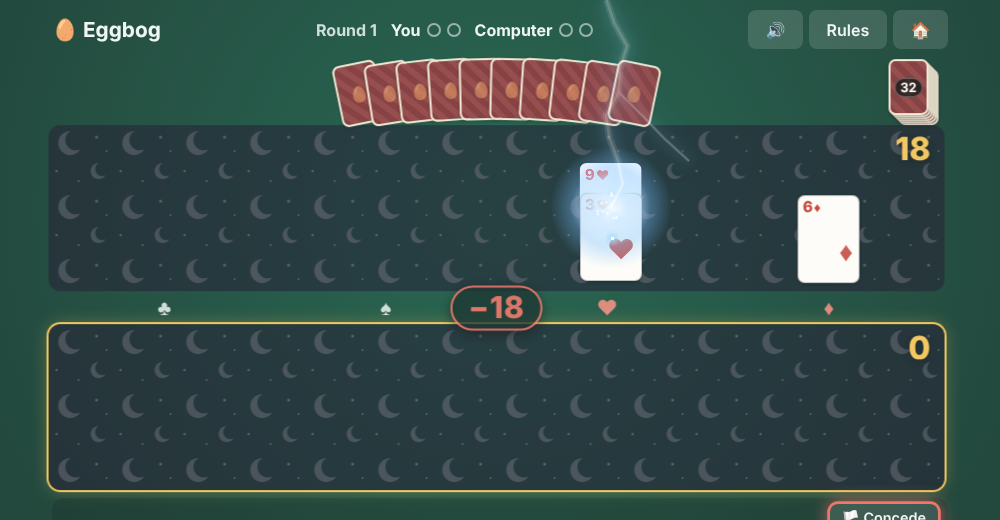
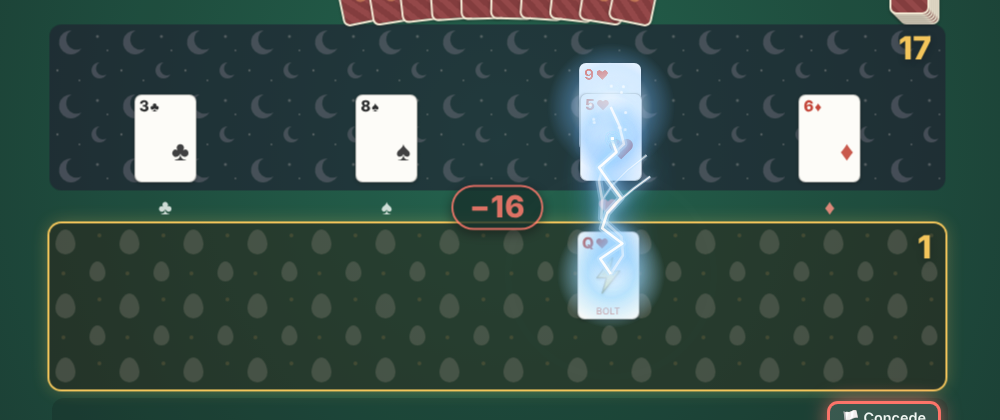
Frost and Bolt now come out of the played card; Frost only covers the two suits it hits
Claude-Session: https://claude.ai/code/session_01RZQVcp2qjBMmu2NDpK7G8g

diff --git a/eggbog.html b/eggbog.html
@@ -2833,23 +2833,32 @@ function removalAnim(kind,pl,clones,G){
   const fx=(css,z)=>{const e=document.createElement('i');e.style.cssText='position:fixed;pointer-events:none;z-index:'+(z||57)+';'+css;host.appendChild(e);return e;};
   const die=(e,ms)=>setTimeout(()=>e.remove(),ms);
   const ctr=r=>({x:r.left+r.width/2,y:r.top+r.height/2});
+  const SISTER={H:'D',D:'H',C:'S',S:'C'};
+  // where the spell comes from: the card that was just played (or its column if it can't be found)
+  const srcR=()=>{const e=document.querySelector(pl.side+' .card[data-id="'+pl.c.id+'"]');if(e)return e.getBoundingClientRect();
+    const col=document.querySelector(pl.side+' .col[data-suit="'+pl.c.s+'"]');if(!col)return null;const r=col.getBoundingClientRect();return {left:r.left+r.width/2-31,top:r.top+20,width:62,height:88};};
+  // a quick glow on the played card as it casts
+  const castGlow=(col)=>{const r=srcR();if(!r)return;const c=ctr(r);const g=fx(`left:${c.x-55}px;top:${c.y-55}px;width:110px;height:110px;border-radius:50%;background:radial-gradient(circle,#fff 0,${col} 30%,#0000 70%)`,57);
+    g.animate([{transform:'scale(.3)',opacity:0},{transform:'scale(1)',opacity:.9,offset:.3},{transform:'scale(1.3)',opacity:0}],{duration:500,fill:'both'});die(g,540);};
   if(kind==='J'){
     // Frost: an icy mist rolls over the opponent's side, freezes each removed card solid, and the ice shatters
     {
       S&&noiseBurst(1,'highpass',2500,7000,.22);
-      const tf=document.querySelector(pl.side==='#myField'?'#oppField':'#myField');
-      if(tf){
-        const r=tf.getBoundingClientRect(),dy=(pl.side==='#myField'?1:-1)*r.height*.7;   // the mist rolls in from the caster's side
-        for(let k=0;k<10;k++){
-          const sz=r.height*(.8+Math.random()*.6),x=r.left+r.width*(k/9)-sz/2,y=r.top+r.height/2-sz/2+(Math.random()-.5)*r.height*.4;
-          const m=fx(`left:${x}px;top:${y}px;width:${sz}px;height:${sz}px;border-radius:50%;background:radial-gradient(circle,#f4fbffd0 0,#c6e9ffaa 35%,#8fd0ff44 60%,#0000 72%);filter:blur(8px)`,56);
-          m.animate([{transform:`translate(${(Math.random()-.5)*40}px,${dy}px) scale(.5)`,opacity:0},{transform:'none',opacity:.9,offset:.4},{transform:`translate(${(Math.random()-.5)*60}px,${-dy*.15}px) scale(1.3)`,opacity:0}],{duration:1150,delay:k*35,easing:'ease-out',fill:'both'});die(m,1250+k*35);
+      castGlow('#bfe6ffcc');
+      // the mist streams out of the played card and settles only over the two affected suits' columns
+      const src=srcR(),opp=pl.side==='#myField'?'#oppField':'#myField';
+      [pl.c.s,SISTER[pl.c.s]].map(s=>document.querySelector(opp+' .col[data-suit="'+s+'"]')).filter(Boolean).forEach((col,ci)=>{
+        const r=col.getBoundingClientRect(),to=ctr(r),from=src?ctr(src):to;
+        for(let k=0;k<9;k++){
+          const sz=r.width*(.7+Math.random()*.5),ox=(Math.random()-.5)*r.width*.5,oy=(Math.random()-.5)*r.height*.6;
+          const m=fx(`left:${to.x-sz/2}px;top:${to.y-sz/2}px;width:${sz}px;height:${sz}px;border-radius:50%;background:radial-gradient(circle,#f4fbffd0 0,#c6e9ffaa 35%,#8fd0ff44 60%,#0000 72%);filter:blur(7px)`,56);
+          m.animate([{transform:`translate(${from.x-to.x}px,${from.y-to.y}px) scale(.25)`,opacity:0},{opacity:.85,offset:.12},{transform:`translate(${ox}px,${oy}px) scale(1)`,opacity:.9,offset:.4},{transform:`translate(${ox*1.2}px,${oy*1.2-10}px) scale(1.25)`,opacity:0}],{duration:1250,delay:k*45+ci*60,easing:'ease-out',fill:'both'});die(m,1350+k*45+ci*60);
         }
-        const tint=fx(`left:${r.left}px;top:${r.top}px;width:${r.width}px;height:${r.height}px;border-radius:12px;background:linear-gradient(#dff4ff30,#9fd8ff20);box-shadow:inset 0 0 40px #cfefff90`,13);
-        tint.animate([{opacity:0},{opacity:1,offset:.3},{opacity:1,offset:.75},{opacity:0}],{duration:1400,fill:'both'});die(tint,1450);
-      }
+        const tint=fx(`left:${r.left}px;top:${r.top}px;width:${r.width}px;height:${r.height}px;border-radius:10px;background:linear-gradient(#dff4ff30,#9fd8ff20);box-shadow:inset 0 0 30px #cfefff90`,13);
+        tint.animate([{opacity:0},{opacity:0,offset:.15},{opacity:1,offset:.35},{opacity:1,offset:.75},{opacity:0}],{duration:1450,fill:'both'});die(tint,1500);
+      });
       clones.forEach((k,i)=>{
-        const r=k.el.getBoundingClientRect(),fz=300+i*90,br=820+i*110;
+        const r=k.el.getBoundingClientRect(),fz=380+i*90,br=880+i*110;
         // the card freezes: it pales to blue and a shell of ice with frost at the edges forms over it
         k.el.animate([{filter:'none'},{filter:'saturate(.3) brightness(1.12)'}],{duration:320,delay:fz,fill:'forwards'});
         const ice=fx(`left:${r.left-2}px;top:${r.top-2}px;width:${r.width+4}px;height:${r.height+4}px;border-radius:8px;background:linear-gradient(135deg,#ffffffb0 0,#cdeeff60 30%,#9fd6ff50 60%,#e8f8ffb0 100%);border:2px solid #eef9ff;box-shadow:0 0 14px #9fd8ff,inset 0 0 12px #fff`,15);
@@ -2879,18 +2888,20 @@ function removalAnim(kind,pl,clones,G){
       });
     }
   }else if(kind==='Q'){
-    // Bolt: lightning strikes each removed card from above; it flashes, chars black and crumbles to ash
+    // Bolt: lightning shoots out of the played card into each removed card; it flashes, chars black and crumbles to ash
     {
       S&&noiseBurst(.55,'bandpass',2200,300,.55);S&&boomLow(.06);
+      const src=srcR();castGlow('#9ad8ffcc');
       const strike=(r,delay)=>{
-        const c=ctr(r),top=Math.max(0,r.top-260),H=c.y-top,n=9;
-        const pts=[];let x=c.x+(Math.random()-.5)*50;
-        for(let s=0;s<=n;s++){pts.push([s===n?c.x:x,top+H*s/n]);x+=(Math.random()-.5)*40;x=x*.75+c.x*.25;}
-        const br=[];let bx=pts[4][0];for(let s=4;s<=7;s++){br.push([bx,top+H*s/n]);bx+=12+Math.random()*14;}
+        // a jagged bolt from the played card to the target, with a short fork off its middle
+        const c=ctr(r),f=src?ctr(src):{x:c.x,y:Math.max(0,r.top-260)},dx=c.x-f.x,dy=c.y-f.y,len=Math.hypot(dx,dy)||1,nx=-dy/len,ny=dx/len,n=9;
+        const pts=[];for(let s=0;s<=n;s++){const j=(s===0||s===n)?0:(Math.random()-.5)*Math.min(40,len*.18);pts.push([f.x+dx*s/n+nx*j,f.y+dy*s/n+ny*j]);}
+        const br=[pts[4]];for(let s=1;s<=3;s++){const q=br[s-1];br.push([q[0]+dx/n*.8+nx*(10+Math.random()*10),q[1]+dy/n*.8+ny*(10+Math.random()*10)]);}
+        const top=Math.min(...pts.map(p=>p[1]),...br.map(p=>p[1]))-20,H=Math.max(...pts.map(p=>p[1]),...br.map(p=>p[1]))-top+20;
         const L=Math.min(...pts.map(p=>p[0]),...br.map(p=>p[0]))-20,W=Math.max(...pts.map(p=>p[0]),...br.map(p=>p[0]))-L+20;
         const pl2=a=>a.map(p=>(p[0]-L).toFixed(1)+','+(p[1]-top).toFixed(1)).join(' ');
-        const b=fx(`left:${L}px;top:${top}px;width:${W}px;height:${H+4}px;opacity:0`,58);
-        b.innerHTML=`<svg width="${W}" height="${H+4}" style="overflow:visible;filter:drop-shadow(0 0 6px #9ad8ff) drop-shadow(0 0 16px #5aa8ff)"><polyline points="${pl2(pts)}" fill="none" stroke="#bfe4ff" stroke-width="7" stroke-linejoin="round" opacity=".55"/><polyline points="${pl2(br)}" fill="none" stroke="#bfe4ff" stroke-width="3" stroke-linejoin="round" opacity=".6"/><polyline points="${pl2(pts)}" fill="none" stroke="#fff" stroke-width="2.6" stroke-linejoin="round"/><polyline points="${pl2(br)}" fill="none" stroke="#fff" stroke-width="1.2"/></svg>`;
+        const b=fx(`left:${L}px;top:${top}px;width:${W}px;height:${H}px;opacity:0`,58);
+        b.innerHTML=`<svg width="${W}" height="${H}" style="overflow:visible;filter:drop-shadow(0 0 6px #9ad8ff) drop-shadow(0 0 16px #5aa8ff)"><polyline points="${pl2(pts)}" fill="none" stroke="#bfe4ff" stroke-width="7" stroke-linejoin="round" opacity=".55"/><polyline points="${pl2(br)}" fill="none" stroke="#bfe4ff" stroke-width="3" stroke-linejoin="round" opacity=".6"/><polyline points="${pl2(pts)}" fill="none" stroke="#fff" stroke-width="2.6" stroke-linejoin="round"/><polyline points="${pl2(br)}" fill="none" stroke="#fff" stroke-width="1.2"/></svg>`;
         b.animate([{opacity:0},{opacity:1,offset:.08},{opacity:.25,offset:.25},{opacity:1,offset:.4},{opacity:.6,offset:.7},{opacity:0}],{duration:420,delay,fill:'both'});die(b,delay+460);
         const hit=fx(`left:${c.x-60}px;top:${c.y-60}px;width:120px;height:120px;border-radius:50%;background:radial-gradient(circle,#fff 0,#cfeaff 20%,#6bb6ff66 45%,#0000 70%)`,57);
         hit.animate([{transform:'scale(.2)',opacity:0},{transform:'scale(1)',opacity:1,offset:.15},{transform:'scale(1.4)',opacity:0}],{duration:460,delay,fill:'both'});die(hit,delay+500);
